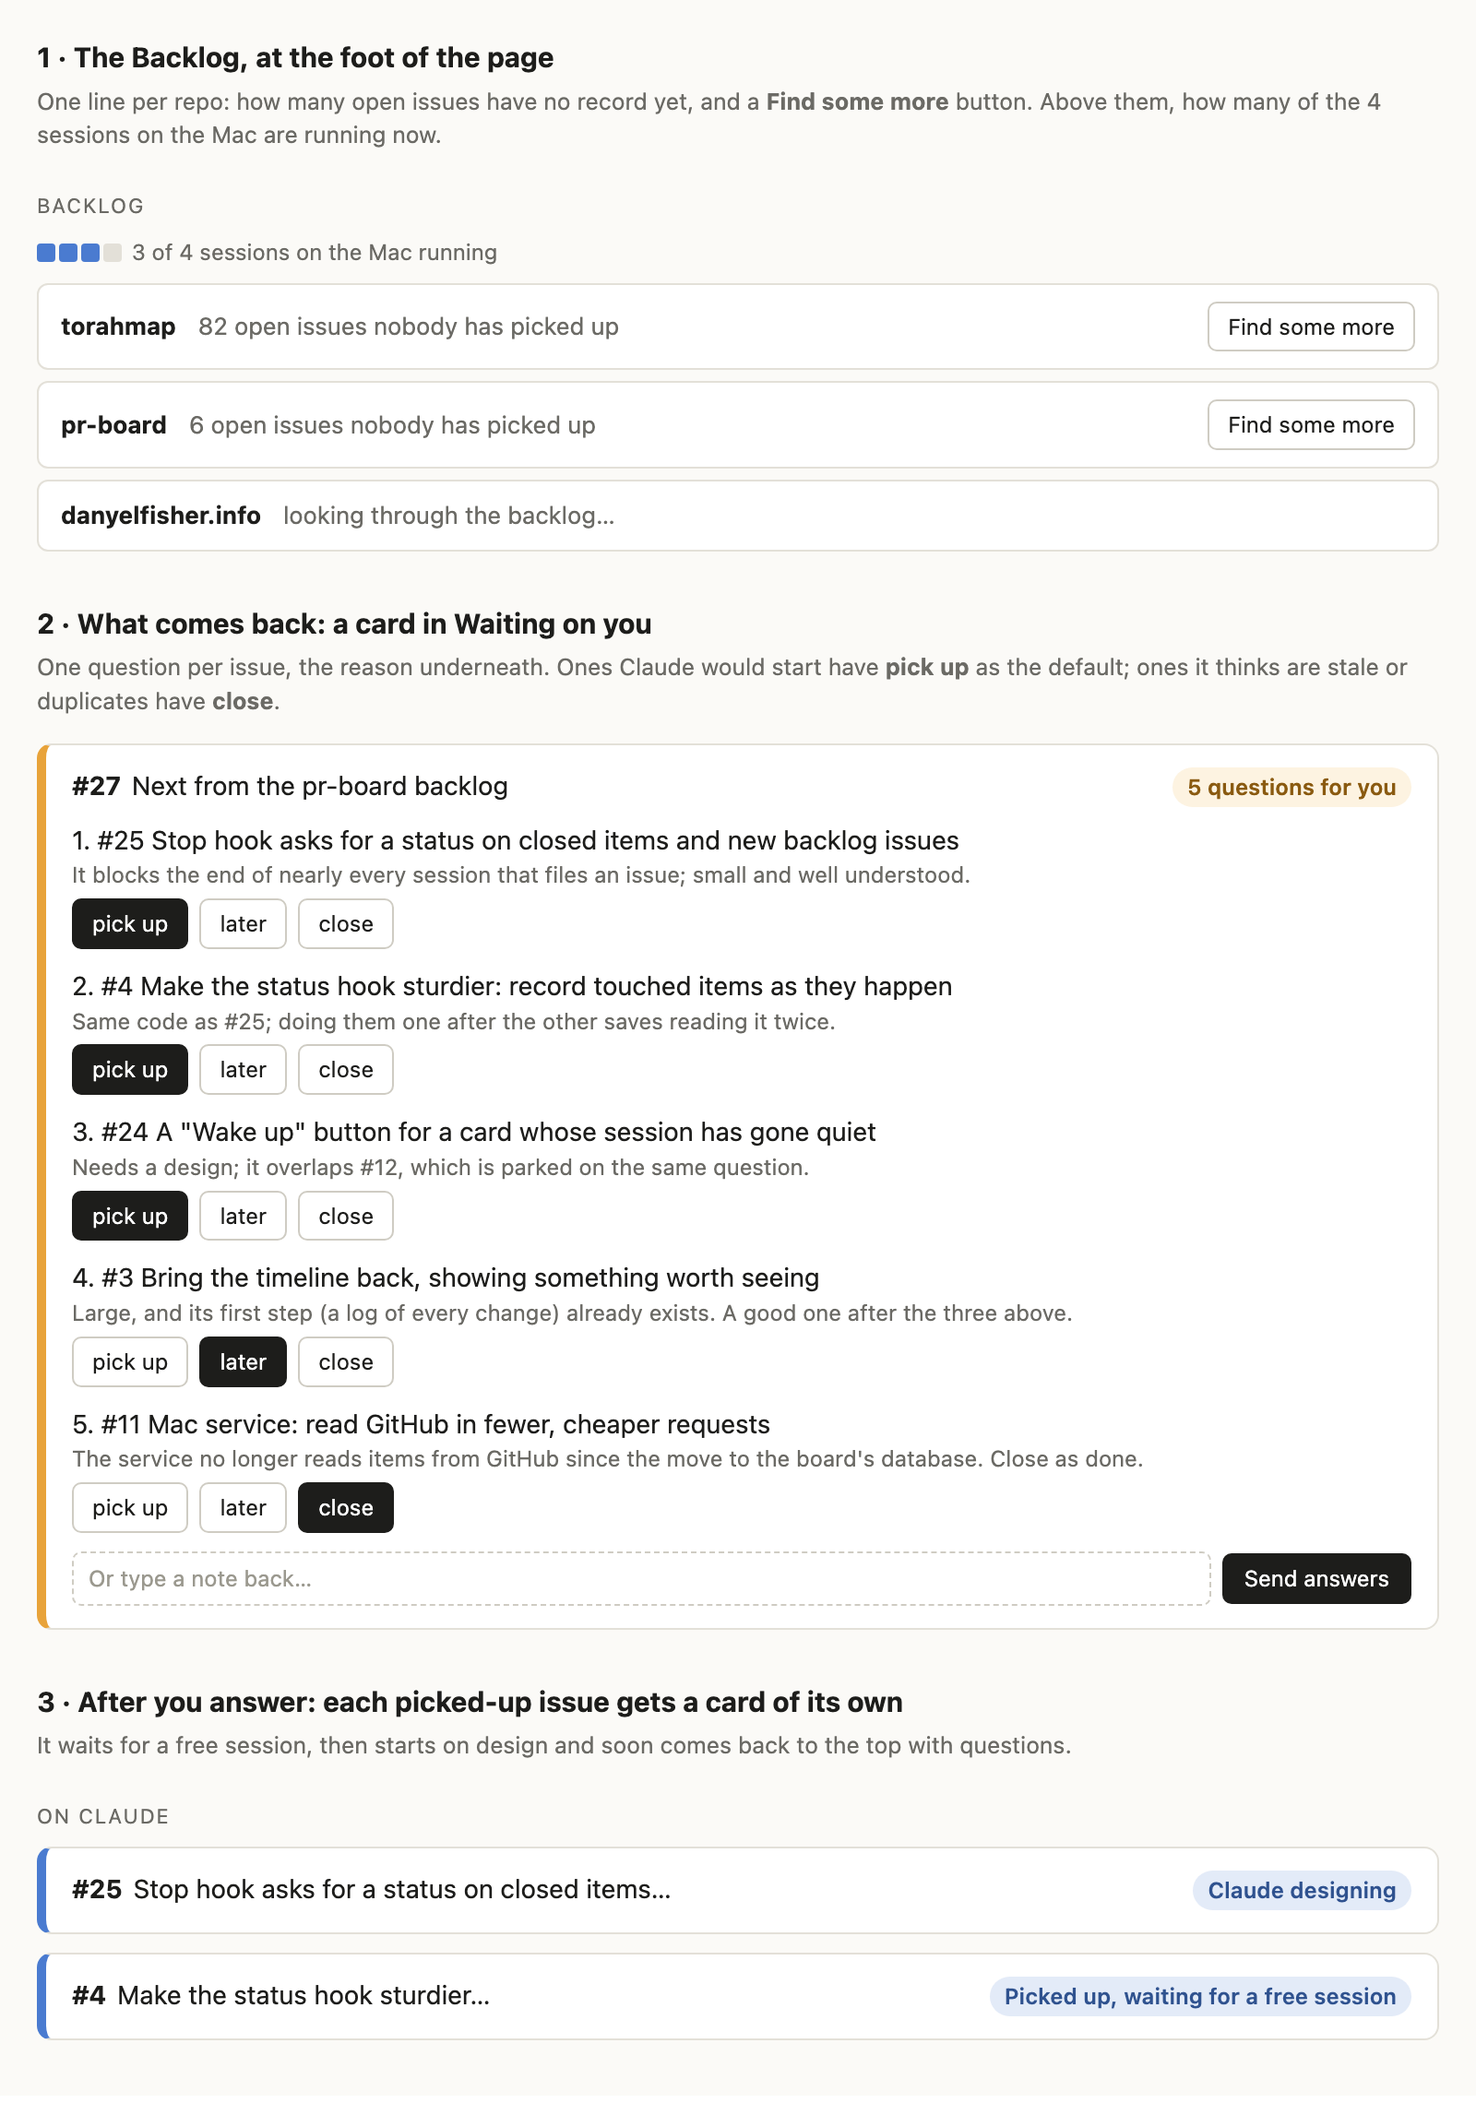
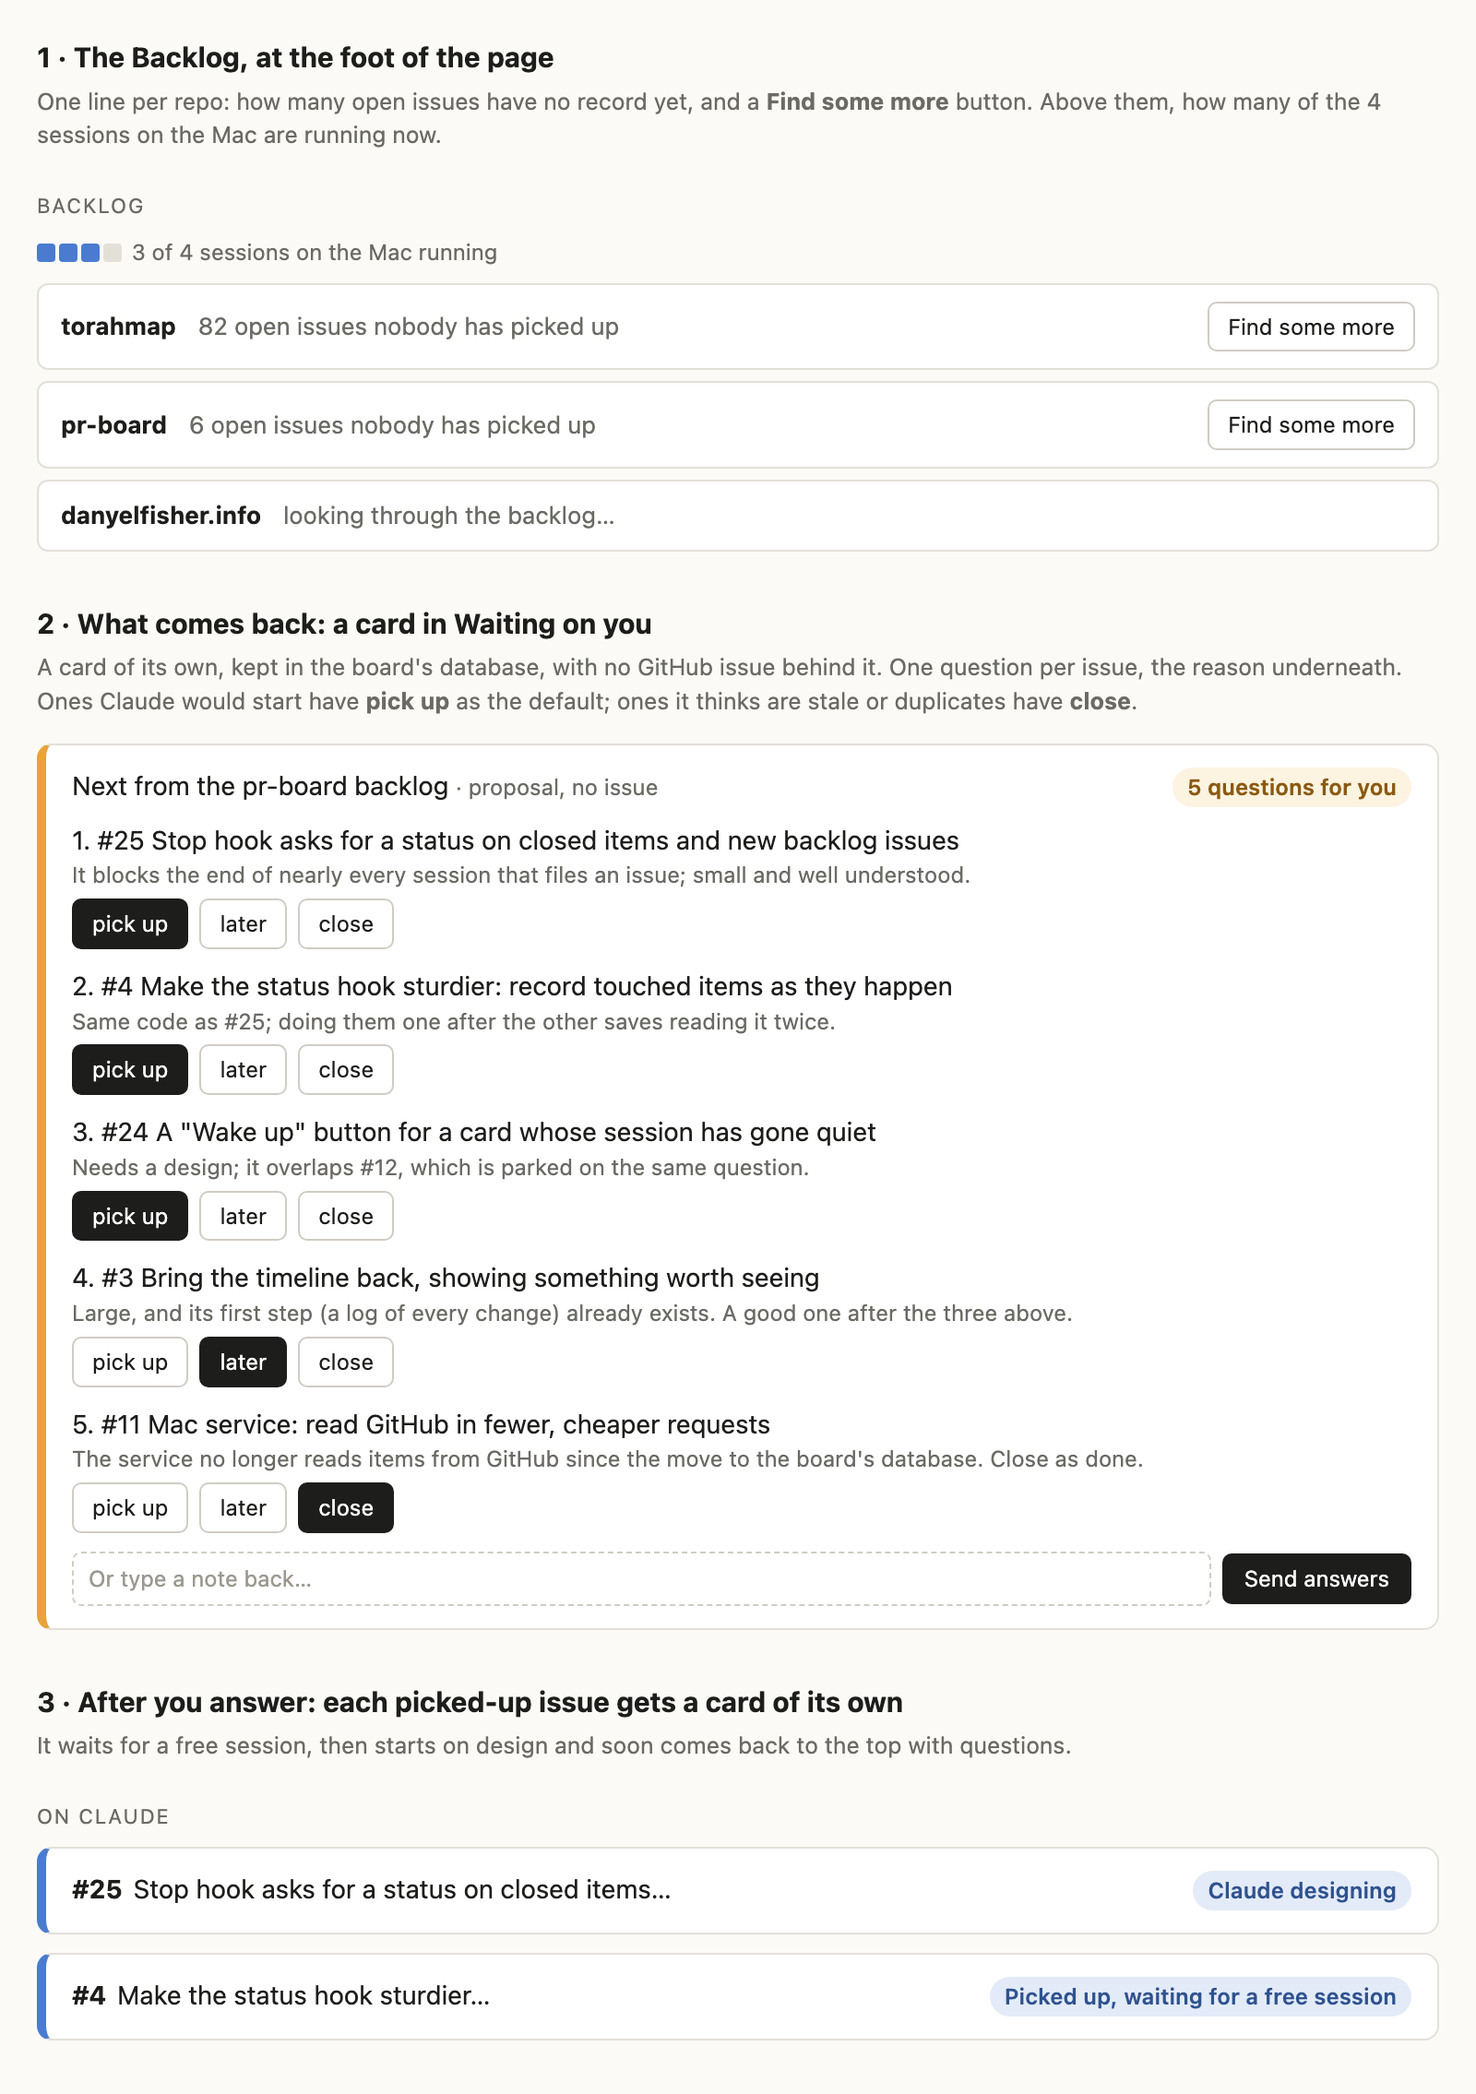
Design: the proposal card lives in the board's database with no GitHub issue; what the 4 counts moves to #27

diff --git a/docs/mockups/find-more.html b/docs/mockups/find-more.html
@@ -37,9 +37,9 @@
   <div class="backlog"><b>danyelfisher.info</b><span class="n">looking through the backlog…</span></div>
 
   <h3 style="margin-top:28px">2 · What comes back: a card in Waiting on you</h3>
-  <p class="cap">One question per issue, the reason underneath. Ones Claude would start have <b>pick up</b> as the default; ones it thinks are stale or duplicates have <b>close</b>.</p>
+  <p class="cap">A card of its own, kept in the board's database, with no GitHub issue behind it. One question per issue, the reason underneath. Ones Claude would start have <b>pick up</b> as the default; ones it thinks are stale or duplicates have <b>close</b>.</p>
   <div class="card">
-    <div class="row"><div><span class="num">#27</span>Next from the pr-board backlog</div><span class="why">5 questions for you</span></div>
+    <div class="row"><div>Next from the pr-board backlog <span class="r" style="color:var(--mute);font-size:12px">· proposal, no issue</span></div><span class="why">5 questions for you</span></div>
     <ol class="q">
       <li>1. #25 Stop hook asks for a status on closed items and new backlog issues
         <div class="r">It blocks the end of nearly every session that files an issue; small and well understood.</div>

diff --git a/docs/superpowers/specs/2026-11-25-find-some-more-design.md b/docs/superpowers/specs/2026-11-25-find-some-more-design.md
@@ -1,6 +1,6 @@
 # PR Board: "Find some more" from the backlog
 
-Date: 2026-11-25. Status: draft for Danyel's review. Issue #18.
+Date: 2026-11-25. Status: second draft for Danyel's review. Issue #18.
 
 ## The problem
 
@@ -13,61 +13,74 @@ On the board, on 2026-11-25:
 - **C first: Claude proposes the next few.** One button starts a session that reads the backlog and comes back with a card: "here are the ones I'd do next, and why", one question per issue. His answers pick them up. It doubles as a tidy-up, since with this many issues some are likely stale or duplicates.
 - **At most 4 sessions open at once.**
 
+Then, on the first draft of this design:
+
+- **The proposal card is a card of its own on the board, with no GitHub issue.** His note: "the right answer is something in the database, not a new issue that encompasses other issues — that's just leading to chaos." This draft keeps the whole proposal, its answers and the picked-up issues waiting for a session in the board's database; nothing new appears on GitHub except the `in-progress` labels and the closes he chose.
+- **What the 4 counts** went to its own issue (#27). Until that is settled, the 4 means sessions running on the Mac at once, the first draft's default.
+
 The per-issue Pick up button (A) and "pick up the next N" (B) are left for later. Both would reuse the pick-up step below, so either is a small addition afterwards. (A note on B: the issue worried that many issues lack a priority label. In torahmap 83 of the 84 open issues have one, so B is more workable than the issue said.)
 
 ![The Backlog with its buttons, the proposal card, and the picked-up issues](../../mockups/find-more.png)
 
 (The issues on the mockup's card are real pr-board issues, but the picks and reasons are only examples; nobody has checked them.)
 
+## Why a database row is cheaper than the first draft feared
+
+The first draft said a card with no issue would take roughly twice the build, because the record, the status command, the watcher and the Mac service all name a piece of work by its issue or PR number. That is true only if the proposal card is squeezed into the existing record and goes through the existing answer path.
+
+It doesn't need to. A proposal is a different kind of thing from a piece of work: it has no gates, no PR, and no Claude session waiting on its answers. So it gets its own table, and its answers are carried out by the Mac service directly, not by a Claude session. The record, the watcher and the answer path for pieces of work stay as they are. What is new is one table for proposals, one for picked-up issues waiting for a session, and the code that reads and writes them.
+
 ## How it works, end to end
 
 1. **Danyel presses "Find some more"** on a repo's line in the Backlog section at the foot of the page. The line also says how many open issues in that repo have no record and nobody's `in-progress` label. Above the lines: how many of the 4 sessions are running on the Mac now.
-2. **The board writes a request** (repo, time). It refuses a second one for a repo that already has one waiting or running, and the repo's line says "looking through the backlog…" until the proposal card appears.
-3. **The Mac service starts a session for the request**, the same way it starts one for answers: `claude -p` with a prompt, as Claude's own GitHub account, counted against the limit of 4. The session only reads, so it runs in a fresh worktree on the default branch and makes no commits.
-4. **The session reads the backlog**: the open issues with no record and no `in-progress`, their labels, ages and comments, the recent merged PRs, and earlier proposal cards (so an issue Danyel said "later" to isn't proposed again for two weeks). It picks:
+2. **The board adds a proposal row** (repo, time asked). It refuses a second one for a repo that already has a proposal open, and the repo's line says "looking through the backlog…" until the card appears.
+3. **The Mac service starts a session for it**, the same way it starts one for answers: `claude -p` with a prompt, as Claude's own GitHub account, counted against the limit of 4. The session only reads, so it runs in a fresh worktree on the default branch and makes no commits.
+4. **The session reads the backlog**: the open issues with no record and no `in-progress`, their labels, ages and comments, the recent merged PRs, and the repo's earlier proposals from the board (so an issue Danyel said "later" to isn't proposed again for two weeks). It picks:
    - up to **5 to pick up**, each with a one-line reason (why this one, why now, what it is close to);
    - any number of **issues to close**, each with a one-line reason (done by an earlier PR, a duplicate of #N, no longer wanted).
-5. **The card.** The session writes it as a status, paused, with one question per issue: `#25 Stop hook asks for a status… — reason (**pick up** | later | close)`. Ones to close have **close** as the default. See "Where the card lives" below.
-6. **Danyel answers** as on any card: a choice per issue, and a note if he likes ("also #19, and not #24 until #12 is settled").
-7. **A session acts on the answers** (the watcher's or the Mac service's, as for any answer):
-   - **pick up**: it asks the board to pick the issue up (a new `pr-status pick-up <ref>` command). The issue gets the `in-progress` label and a card of its own in On Claude, "Picked up, waiting for a free session".
-   - **close**: it closes the issue on GitHub with a comment giving the reason and a link to the card's issue.
-   - **later**: nothing, apart from being remembered (step 4).
-   - Then it ends the proposal card (see below).
-8. **The Mac service starts a session for each pick-up** when one of the 4 is free, oldest first, with answers waiting going ahead of pick-ups, so an item Danyel answered isn't stuck behind new work. The session is told: Danyel picked this up from the backlog; start with design (`--gate design --state working`), and end with design complete or paused with questions. It uses the worktree and branch `issue-N`, as today. Its first status replaces "waiting for a free session" with the normal card.
+5. **It writes the proposal to the board** with a new command, `pr-status propose <owner/repo> --item "#25 | pick up | reason" --item "#11 | close | reason" …`, and ends. The row now holds the list, and the card appears in Waiting on you.
+6. **The card** shows one question per issue, the issue's title, the reason underneath, and the choices (pick up | later | close) with Claude's suggestion as the default. Its title is "Next from the pr-board backlog", with no issue number. Danyel answers as on any card, and the answers are saved on the same row.
+7. **The Mac service carries out the answers itself**, on its next look, with no Claude session:
+   - **pick up**: adds the `in-progress` label on GitHub and a row to the pick-up table. The issue's card appears in On Claude, "Picked up, waiting for a free session".
+   - **close**: closes the issue on GitHub with a comment giving the reason and saying it was closed from a backlog proposal on the board.
+   - **later**: nothing; the answer stays on the row, which step 4 reads.
+   - Then it marks the proposal done, and the card leaves the page.
+8. **The Mac service starts a session for each pick-up** when one of the 4 is free, oldest first, with answers waiting going ahead of pick-ups, so an item Danyel answered isn't stuck behind new work. The session is told: Danyel picked this up from the backlog; start with design (`--gate design --state working`), and end with design complete or paused with questions. It uses the worktree and branch `issue-N`, as today. Its first status creates the normal record, and the pick-up row is marked started, so the "waiting" card gives way to the normal one.
+
+If a step fails (the session dies before writing a proposal, or GitHub refuses a close), the proposal goes back to Danyel with a line saying what went wrong, the way a gave-up answer does now.
 
 ## The pieces to build
 
-- **Board database**: a request table (kind: proposal or pick-up, repo, issue for a pick-up, when made, when a session took it, when it ended). Pressing the button and `pr-status pick-up` each add a row.
-- **Board HTTP interface**: Danyel's sign-in may make a proposal request; the service token may make a pick-up, list waiting requests, and claim one (one safe update, as answers are claimed). The page's data gains the Backlog counts per repo and the number of sessions running (the Mac service reports it on each look).
-- **The page**: the Backlog section, its button, "looking through the backlog…", the session count, and the "waiting for a free session" card.
-- **The Mac service**: serves requests as well as answers, raises the default limit from 2 to 4, and writes two new prompts (proposal, pick-up). Its existing rules carry over unchanged: nothing claimed before the worktree and prompt are ready, a session that dies without writing a status is handed back to Danyel, the hour limit.
-- **The status command**: `pr-status pick-up <ref>`.
+- **Board database**, a new migration with two tables:
+  - `proposal`: repo, asked at, session started at, written at, the list (issue, title, suggestion, reason for each), answered at, the answers, the note, done at, and what went wrong if anything did.
+  - `pickup`: repo, issue, which proposal it came from, asked at, session started at. (A and B later add rows here directly.)
+- **Board HTTP interface**: Danyel's sign-in may ask for a proposal and answer one. The service token may list proposals waiting for a session, claim one (one safe update, as answers are claimed), write its list, list answered proposals, mark one done or failed, and list and claim pick-ups. The page's data gains the Backlog counts per repo, the open proposals, the waiting pick-ups, and the number of sessions running (the Mac service reports it on each look).
+- **The page**: the Backlog section, its button, "looking through the backlog…", the session count, the proposal card, and the "waiting for a free session" card.
+- **The Mac service**: serves proposals and pick-ups as well as answers, carries out proposal answers with `gh`, raises the default limit from 2 to 4, and writes two new prompts (proposal, pick-up). Its existing rules carry over unchanged: nothing claimed before the worktree and prompt are ready, a session that dies without writing is handed back to Danyel, the hour limit.
+- **The status command**: `pr-status propose`.
 - **The pr-status skill**: a short section on what a proposal session and a pick-up session must do.
 
-## Where the card lives
+What doesn't change: the `work` and `answer` tables, `pr-status set`, the watcher, the Stop hook.
 
-The board's record is for one piece of work with an issue or a PR. A proposal card is neither, so it needs a home. Two ways:
+## A note on the proposal card
 
-- **(a) A proposal issue on GitHub** (my pick). The session opens an issue, "Next from the backlog, 2026-11-25", whose body lists the proposals with their reasons, and writes its status there with no design step. Everything after that already exists: the card, the questions, the answer, the Mac service picking up an unanswered card. When the answers have been acted on, the session closes the issue, which ends the record. Cost: one extra issue per press on GitHub, closed within a day or so, and the card shows the Implementation and Prep boxes, which mean nothing here. The board would hide them, and the "file an issue" choice, for an issue with a `backlog proposal` label.
-- **(b) A card of its own on the board, with no issue.** Cleaner on GitHub and on the page, but the record, the status command, the watcher and the Mac service all name work by its issue or PR number, so each needs a second way to name a piece of work. Roughly twice the build.
+Every card has a note box. On a proposal card a note like "also #19, and not #24 until #12 is settled" needs someone to read it, and step 7 has no Claude session. Two ways:
 
-## What the 4 counts
-
-"Most sessions open at once" can mean two things:
-
-- **(a) Sessions running on the Mac at once** (my pick). The Mac service's existing limit, raised from 2 to 4, shared by answer sessions, proposal sessions and pick-up sessions. Pick-ups past the limit wait their turn. This doesn't stop work piling up on Danyel's side, but he decides that each time he answers a proposal card.
-- **(b) Pieces of work Claude has open.** The board stops offering to pick up more while 4 records are open. Closer to "how much am I juggling", but there are already more than 4 open records across the repos, so the button would be off most of the time unless only picked-up items count.
+- **(a) A note starts a session** (my pick). If the answer has a note, the Mac service carries out the choices as in step 7, then starts a short session with the note, the proposal and the choices in its prompt. It may add pick-ups (a `pr-status pick-up <ref>` command) or close more issues, and then marks the proposal done. Without a note, no session.
+- **(b) No note box on proposal cards.** Simpler, but "also #19" then means pressing the button again or opening a session by hand.
 
 ## Claude's calls, for Danyel to confirm
 
 - Picked-up issues run through the Mac service as `claude -p` sessions, not as Remote Control sessions in claude.ai/code as the first design said. There is still no way for the service to start a Remote Control session, and everything else on the board already works this way.
+- The Mac service, not a Claude session, labels and closes issues after a proposal is answered. It runs as Claude's GitHub account, as the sessions do.
 - Up to 5 to pick up per card, and any number to close.
 - "Later" keeps an issue off the next two weeks of proposals.
 - Answers waiting go ahead of pick-ups for a free session.
 - One button per repo, not one for all repos, since each session works in one repo's clone.
+- The proposal card has no "file an issue" choice on its questions; it would only add to the backlog it is meant to tidy.
 
 ## Left for later
 
 - A (per-issue Pick up button) and B (pick up the next N). Both would add pick-up rows directly.
 - Proposals across all repos at once.
+- What the 4 counts, if Danyel wants the other meaning (#27).
